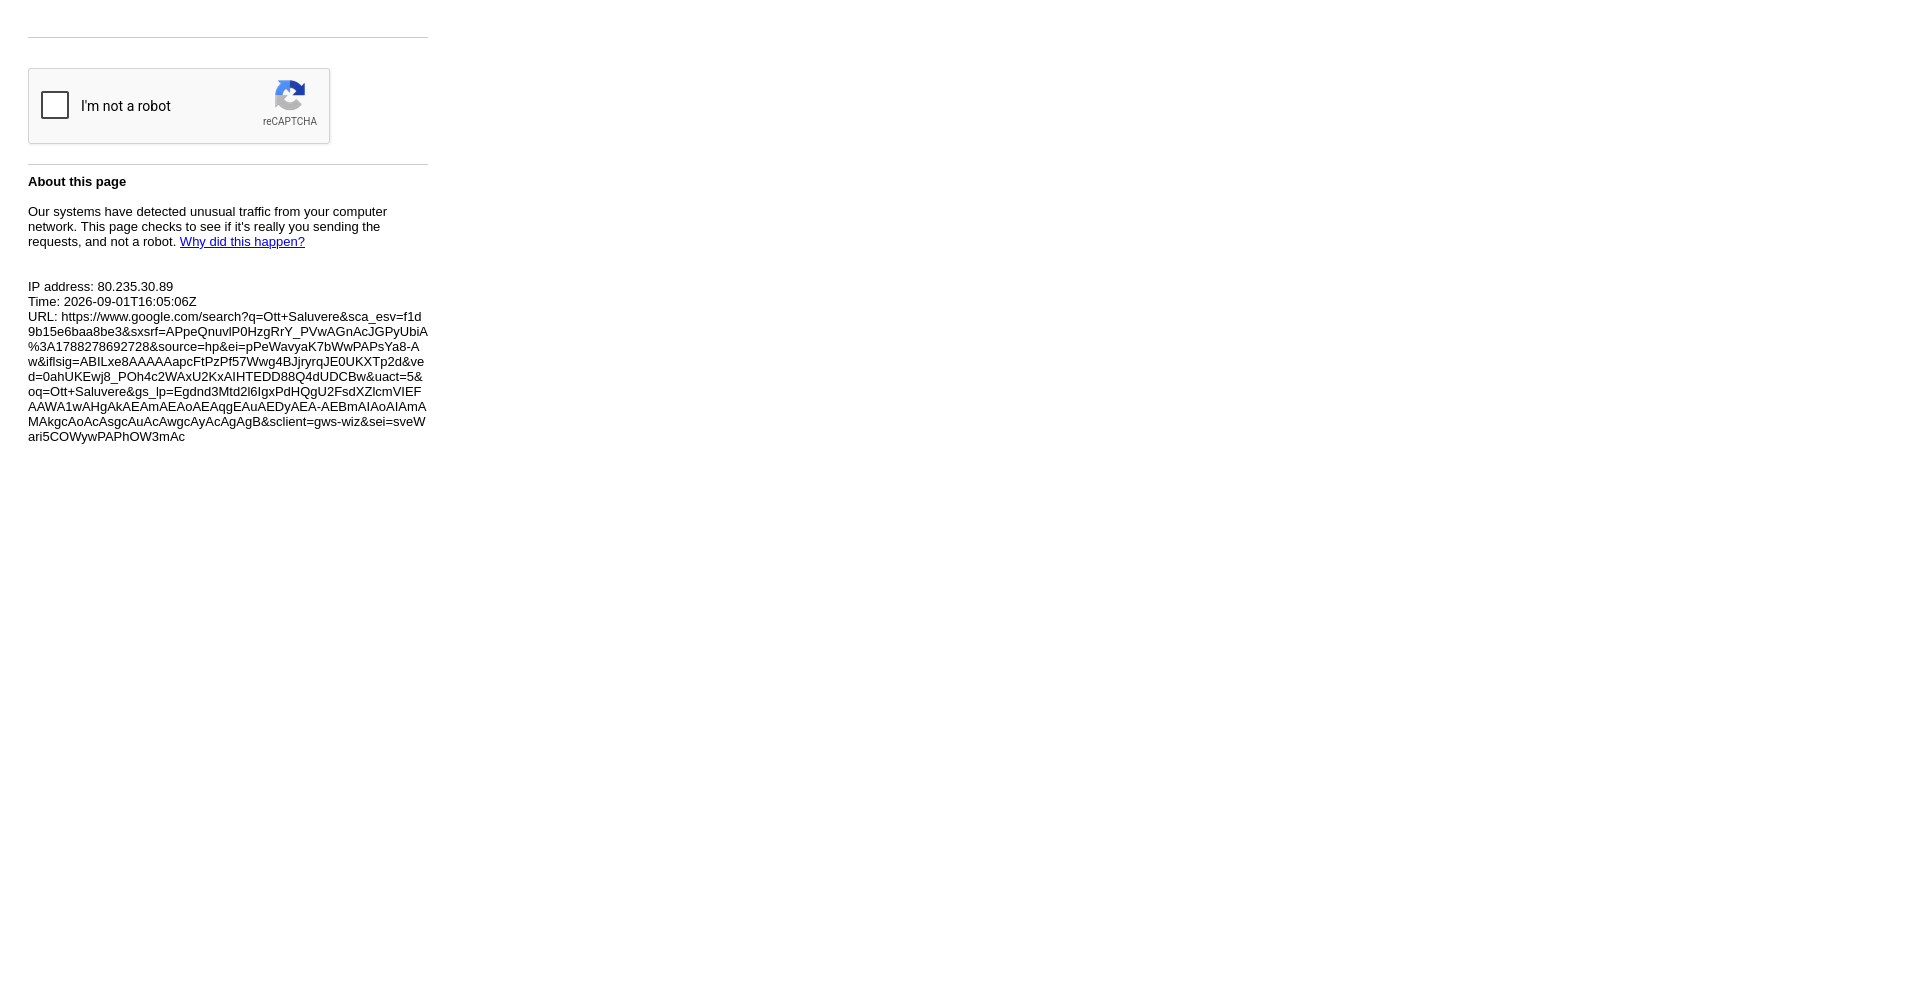
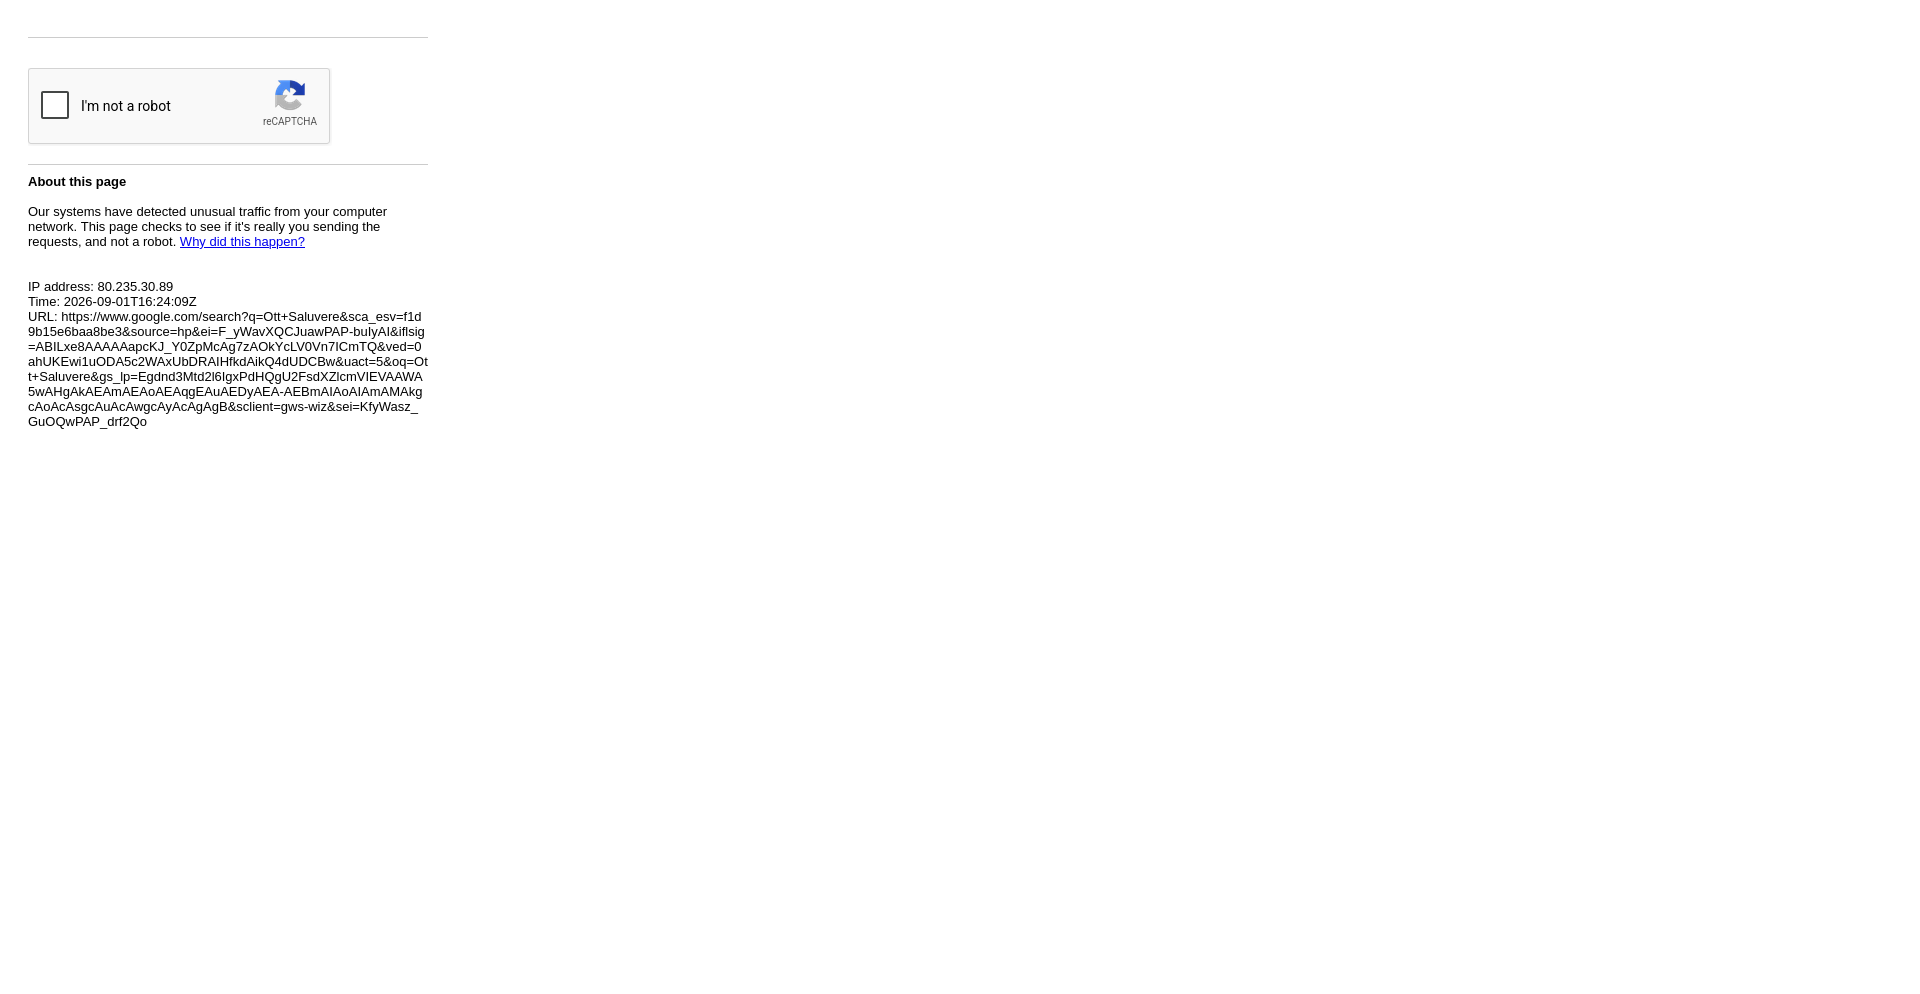
Ülesanne 1: võimalda otsingumootorit valida muutujaga OTSINGUMOOTOR

Changed region(s): [[0.0, 0.3119, 0.2188, 0.4678]]

diff --git a/task1_google_otsing.py b/task1_google_otsing.py
@@ -1,12 +1,16 @@
 """Ülesanne 1 - Ava Google ja sisesta otsing.
 
-Avab brauseri, läheb Google'i avalehele, otsib minu nime ja teeb tulemustest
-kuvatõmmise faili screenshots/minu_otsing.png.
+Avab brauseri, otsib minu nime ja teeb tulemustest kuvatõmmise faili
+screenshots/minu_otsing.png.
 
 Nagu juhendi lk 4 kirjeldab, tuvastab Google automatiseeritud brauseri kiiresti ja
 paneb ette CAPTCHA "I'm not a robot". Sel juhul salvestab skript tõendina CAPTCHA
 kuvatõmmise ja teeb sama otsingu uuesti DuckDuckGos, mis on juhendis pakutud
 leebem variant. Nii jääb minu_otsing.png-i alati päris otsingutulemustega pilt.
+
+Keskkonnamuutujaga saab otsingumootori ka ise valida:
+    OTSINGUMOOTOR=duckduckgo   -> jäta Google'i katse vahele
+    OTSINGUMOOTOR=google       -> proovi ainult Google'it, ilma varulahenduseta
 """
 
 import os
@@ -22,33 +26,54 @@ KAUST = "screenshots"
 KUVATOMMIS = os.path.join(KAUST, "minu_otsing.png")
 CAPTCHA_KUVATOMMIS = os.path.join(KAUST, "google_captcha.png")
 
+GOOGLE = "https://www.google.com"
+DUCKDUCKGO = "https://duckduckgo.com"
+
+# Kuidas tuvastada, et lehel on päris otsingutulemused.
+TULEMUSTE_VALIJA = {
+    GOOGLE: (By.ID, "search"),
+    DUCKDUCKGO: (By.CSS_SELECTOR, "[data-testid='result']"),
+}
+
 
 def main():
     os.makedirs(KAUST, exist_ok=True)
+    valik = os.environ.get("OTSINGUMOOTOR", "").lower()
     draiver = loo_draiver()
     try:
-        # 1. katse: Google, nagu ülesandes nõutud.
-        otsi(draiver, "https://www.google.com")
-        if draiver.find_elements(By.ID, "search"):
-            draiver.save_screenshot(KUVATOMMIS)
-            print("Google'i otsingutulemused salvestatud:", KUVATOMMIS)
+        if valik == "duckduckgo":
+            otsi_ja_salvesta(draiver, DUCKDUCKGO)
             return
 
+        # Vaikimisi proovime Google'it, nagu ülesandes nõutud.
+        if otsi_ja_salvesta(draiver, GOOGLE) or valik == "google":
+            return
+
+        # Google blokeeris - salvestame selle tõendiks ja läheme DuckDuckGole.
         draiver.save_screenshot(CAPTCHA_KUVATOMMIS)
         print(
             "Google tuvastas roboti ja näitas CAPTCHA-t (vt juhendi lk 4).\n"
             f"Salvestasin selle tõendiks: {CAPTCHA_KUVATOMMIS}\n"
             "Teen sama otsingu DuckDuckGos, mis on juhendis pakutud leebem variant."
         )
-
-        # 2. katse: DuckDuckGo ei blokeeri Seleniumi.
-        otsi(draiver, "https://duckduckgo.com")
-        tulemused = draiver.find_elements(By.CSS_SELECTOR, "[data-testid='result']")
-        draiver.save_screenshot(KUVATOMMIS)
-        print(f"DuckDuckGo leidis {len(tulemused)} tulemust")
-        print("Otsingutulemused salvestatud:", KUVATOMMIS)
+        otsi_ja_salvesta(draiver, DUCKDUCKGO)
     finally:
         draiver.quit()
+
+
+def otsi_ja_salvesta(draiver, url):
+    """Teeb otsingu ja salvestab kuvatõmmise. Tagastab True, kui tulemusi oli."""
+    otsi(draiver, url)
+
+    tulemused = draiver.find_elements(*TULEMUSTE_VALIJA[url])
+    if not tulemused:
+        print("Otsingutulemusi ei leitud.")
+        return False
+
+    draiver.save_screenshot(KUVATOMMIS)
+    print(f"Leidsin {len(tulemused)} tulemust")
+    print("Kuvatõmmis salvestatud:", KUVATOMMIS)
+    return True
 
 
 def otsi(draiver, url):

diff --git a/README.md b/README.md
@@ -75,6 +75,13 @@ faili `screenshots/minu_otsing.png` alati päris otsingutulemustega pilt. Kui Go
 mingil masinal siiski läbi laseb, salvestatakse `minu_otsing.png` kohe Google'i
 tulemustest ja DuckDuckGot ei kasutata.
 
+Otsingumootori saab ka ise valida keskkonnamuutujaga `OTSINGUMOOTOR`:
+
+```
+OTSINGUMOOTOR=duckduckgo py task1_google_otsing.py   # jäta Google'i katse vahele
+OTSINGUMOOTOR=google py task1_google_otsing.py       # ainult Google, ilma varulahenduseta
+```
+
 ## Ülesande 6 testid
 
 | Test | Eesmärk | Kasutatud leidmismeetodid |
